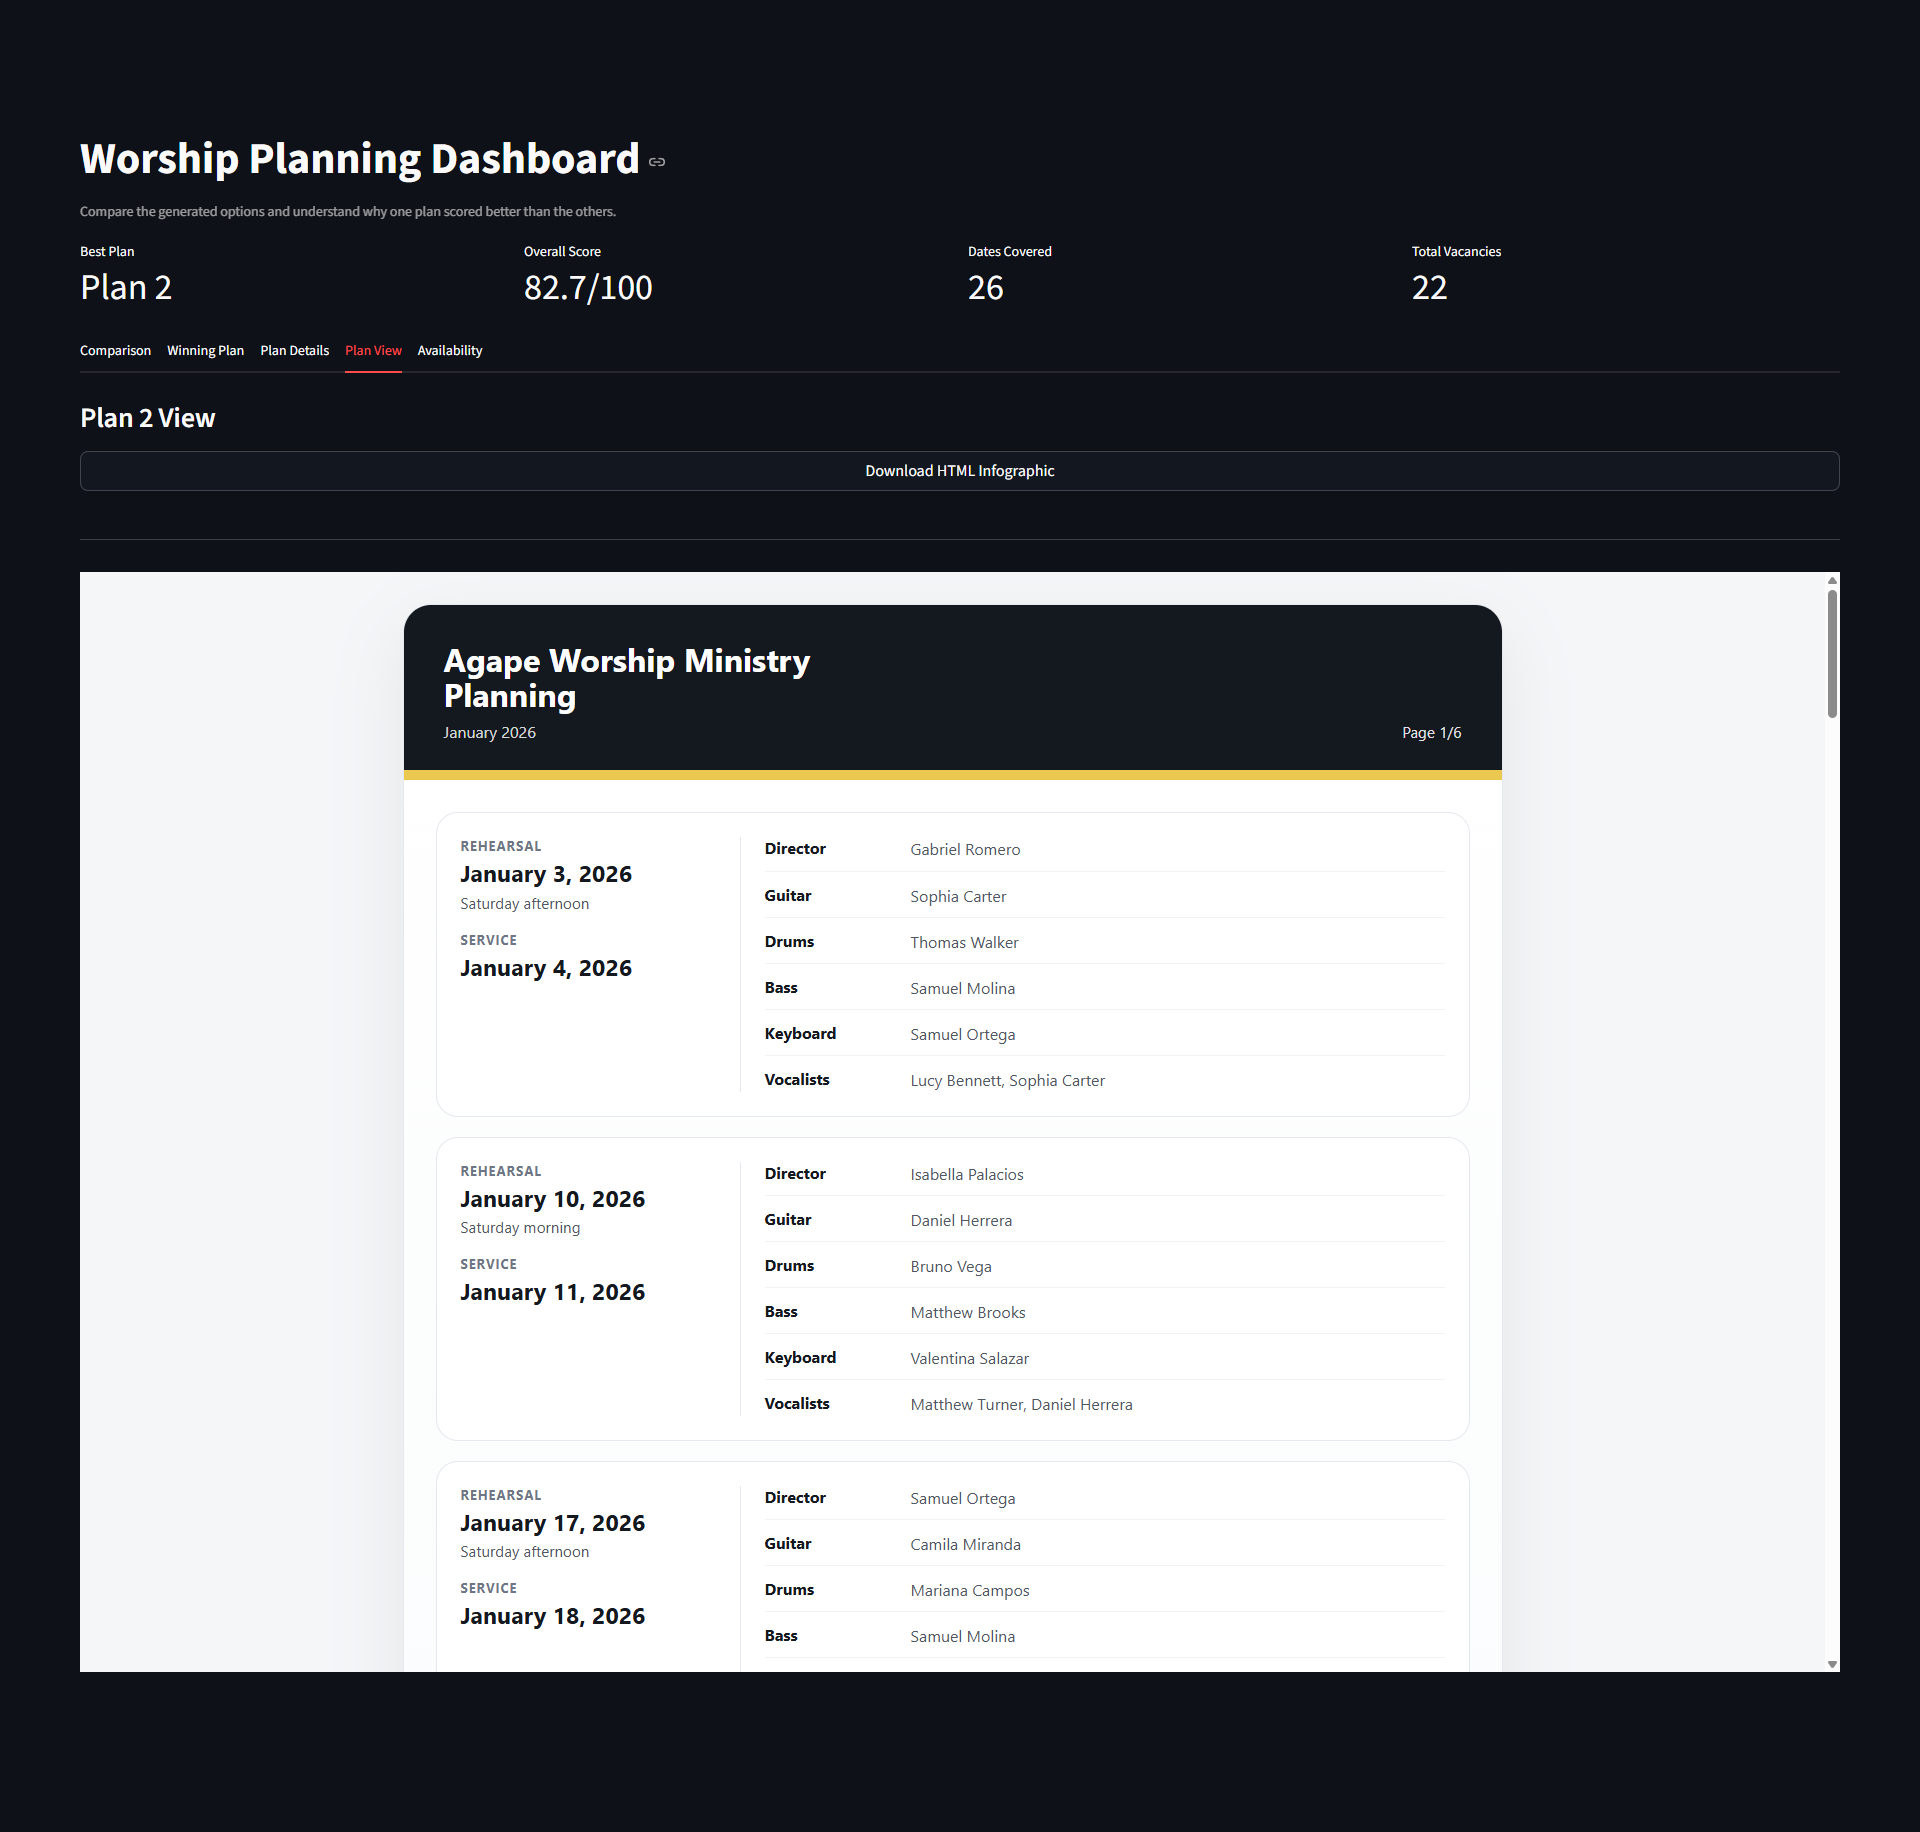
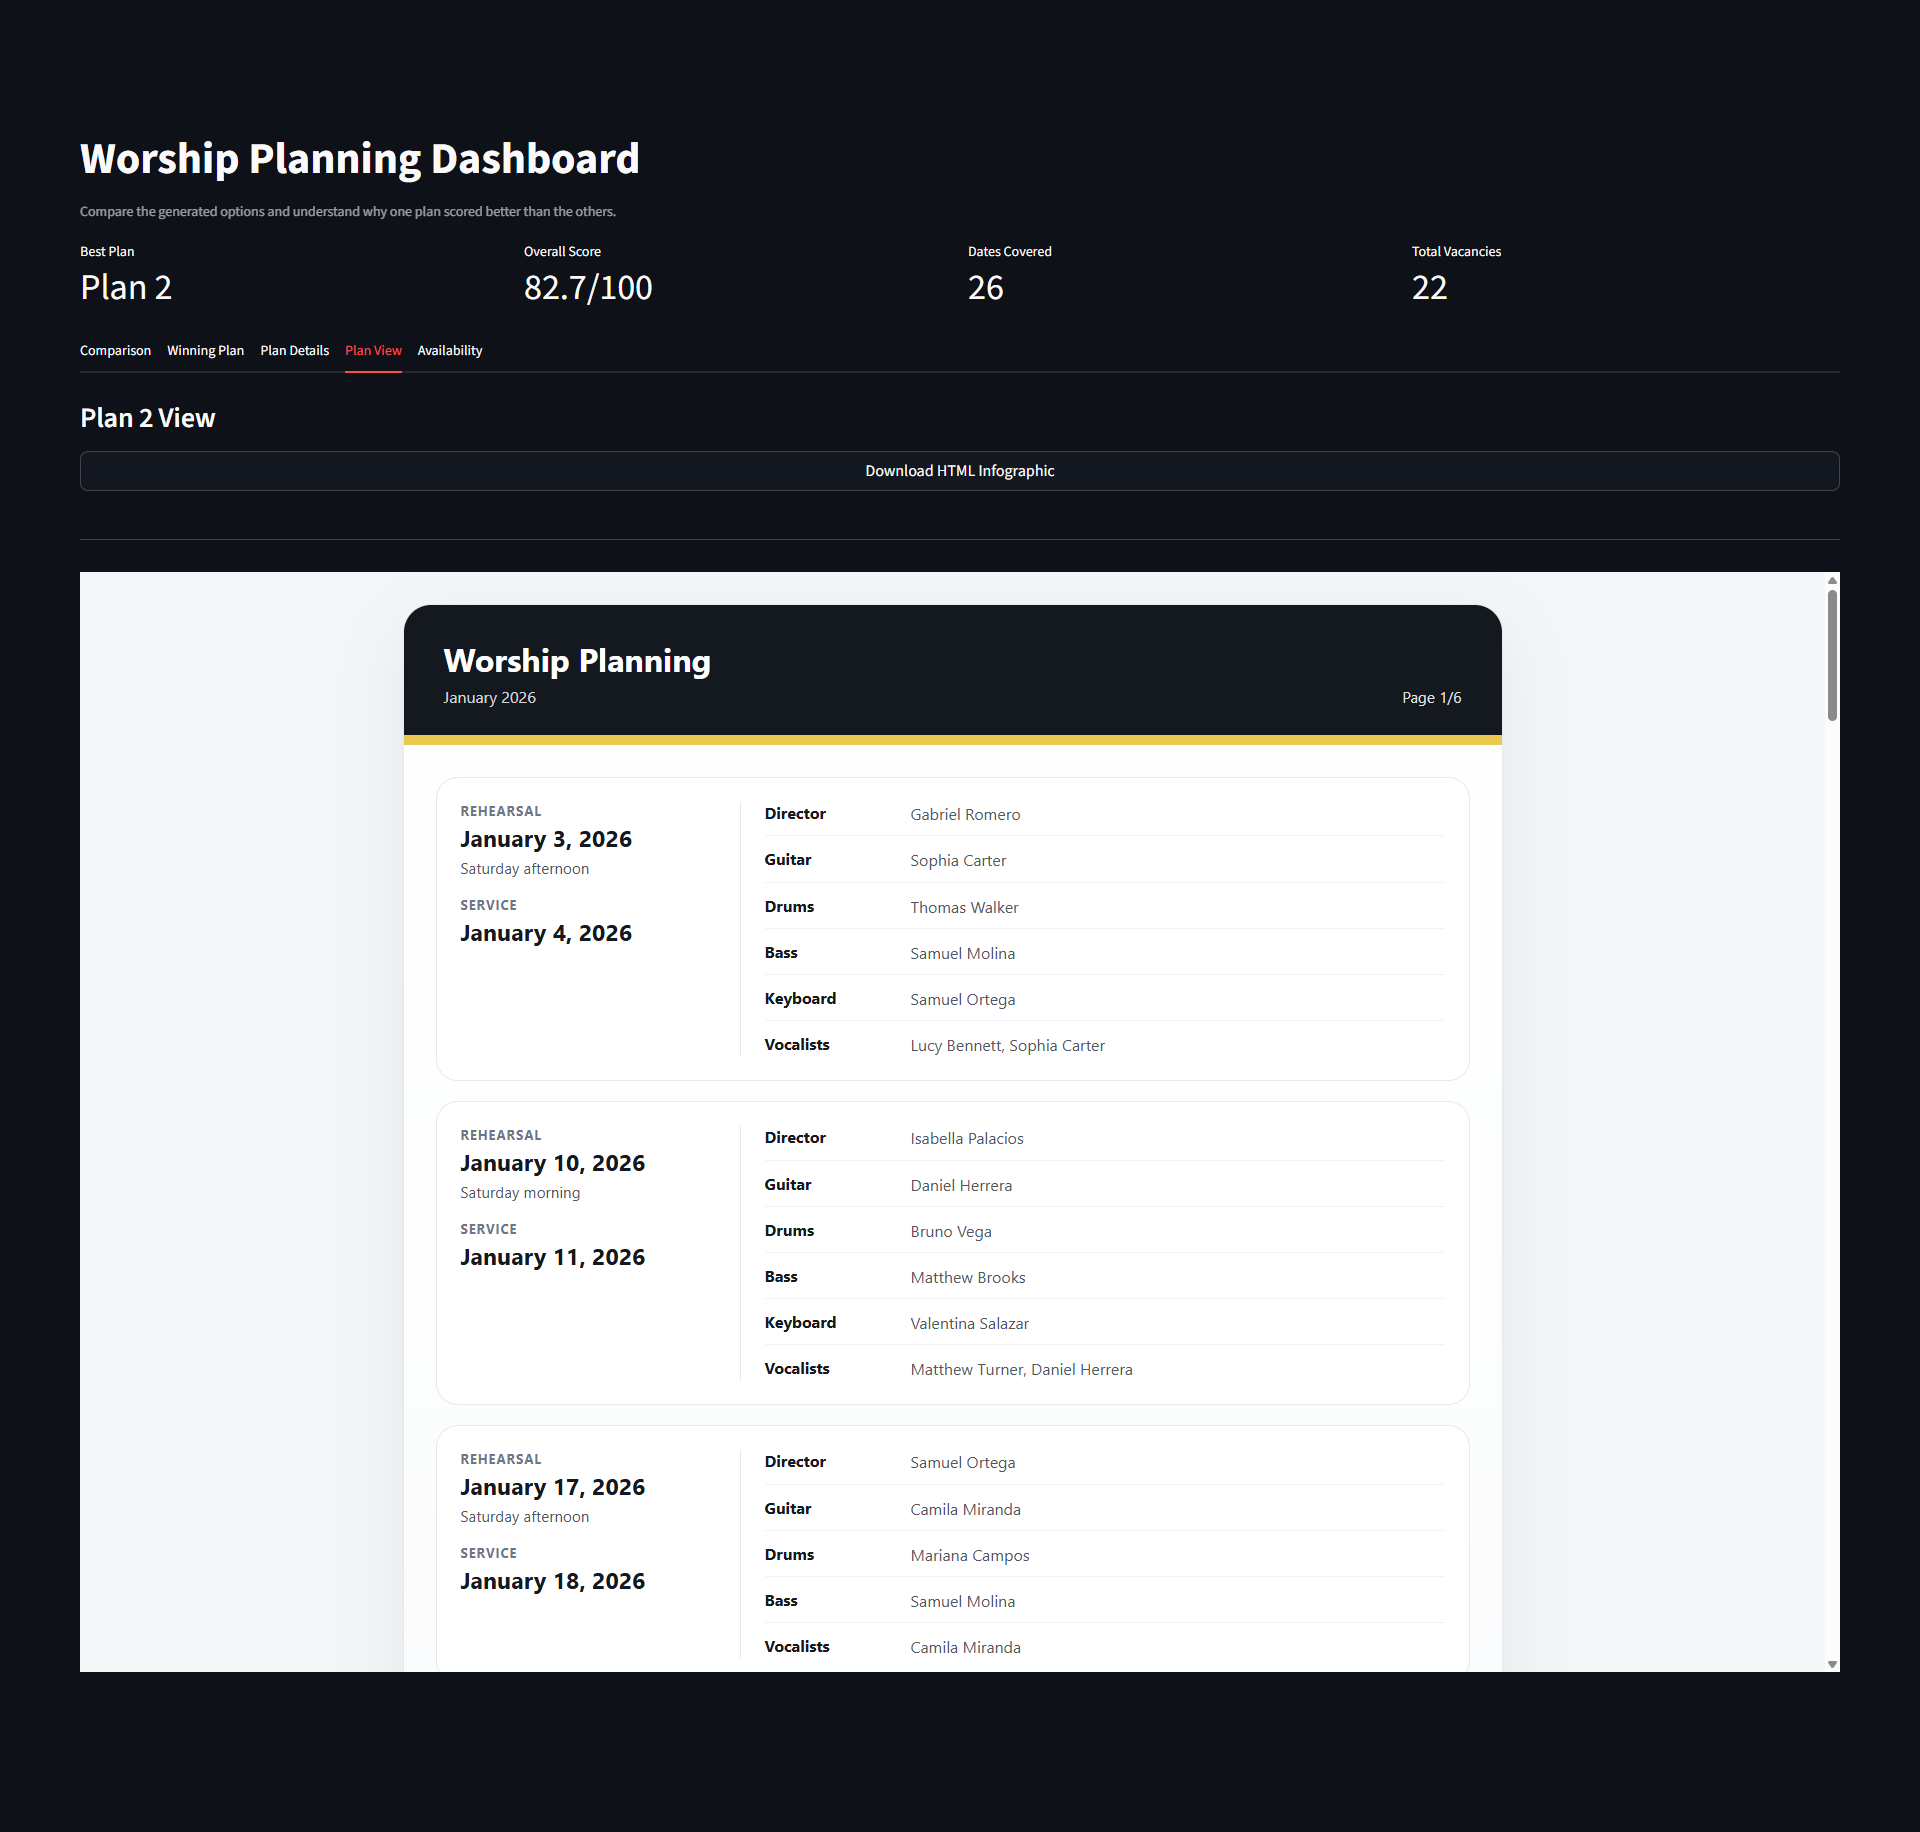
Change the title of the worship planning dashboard plan view infographic to be more descriptive and accurate. Update worship_planning_dashboard_plan_view.png

diff --git a/src/reporting/export_infographic.py b/src/reporting/export_infographic.py
@@ -443,7 +443,7 @@ def render_infographic_html(
 def build_plan_infographic_html(
     plan_df: pd.DataFrame,
     *,
-    title: str = "Agape Worship Ministry\nPlanning",
+    title: str = "Worship Planning",
     theme: HtmlTheme | None = None,
 ) -> str:
     prepared_plan_df = prepare_infographic_dataframe(plan_df)
